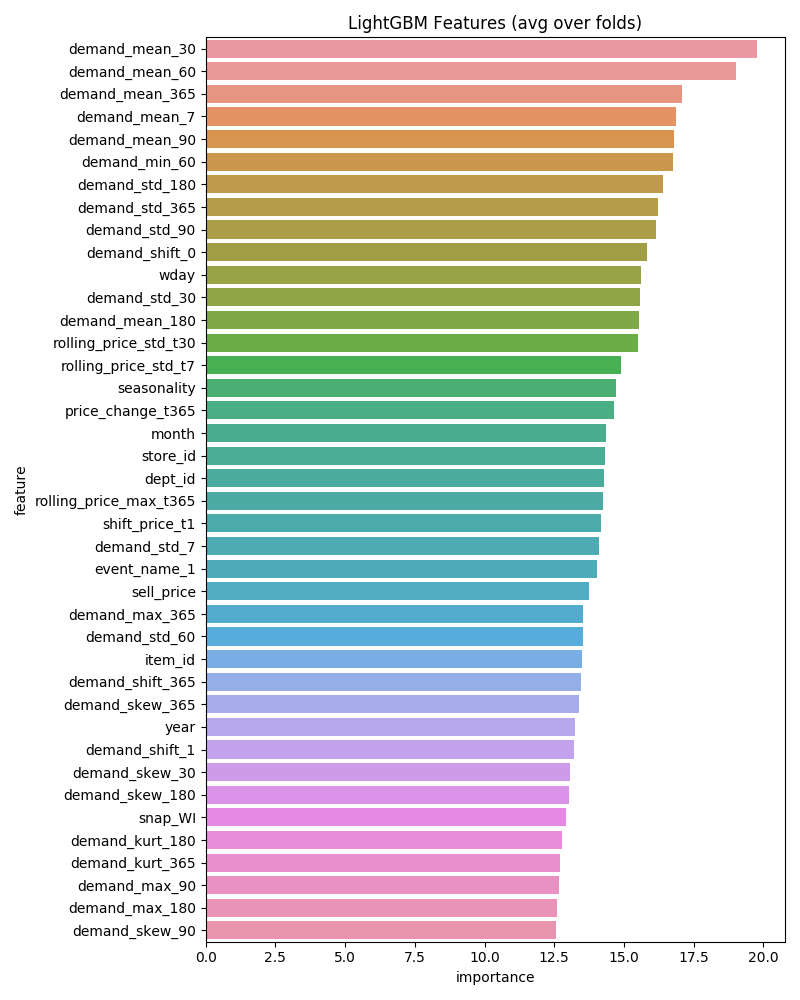
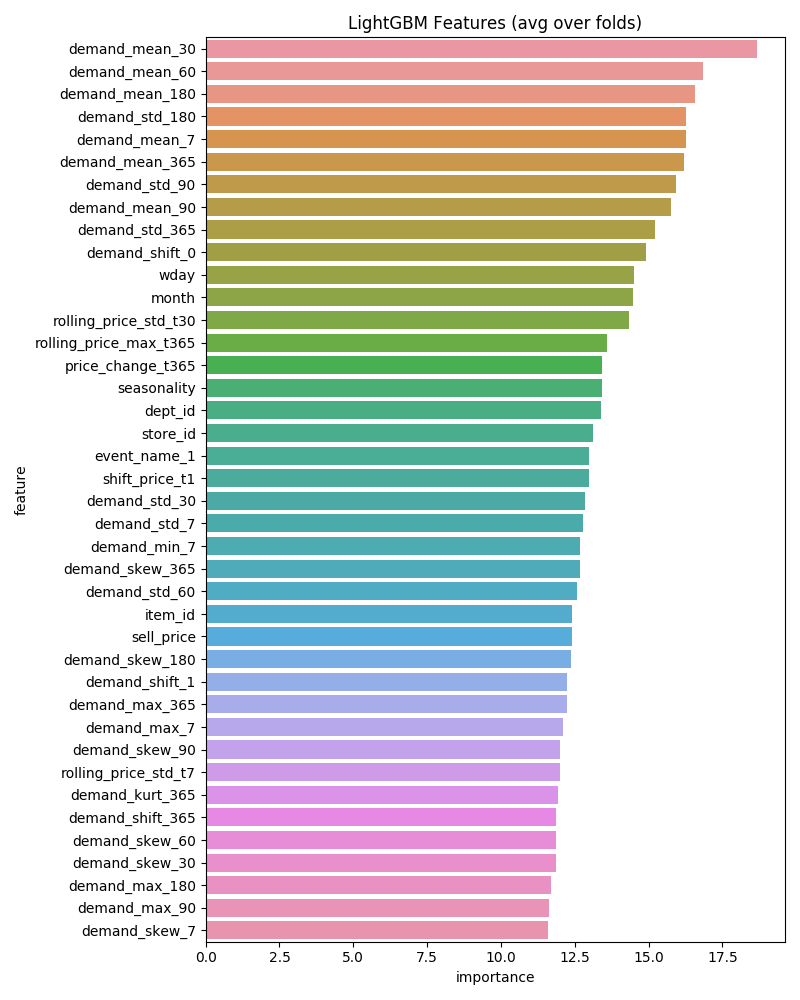
LB#12 holdout + cat cols

diff --git a/src/utils.py b/src/utils.py
@@ -11,10 +11,15 @@ from multiprocessing import Pool, cpu_count
 from sklearn.metrics import mean_squared_error
 from time import time, sleep
 from tqdm import tqdm
+from typing import Union
 
 NUM_FOLDS = 5
 
 FEATS_EXCLUDED = ['demand','index','id','d','date','is_test','wm_yr_wk','d_numeric']
+
+# ref:https://www.kaggle.com/kailex/m5-forecaster-0-57330/comments
+CAT_COLS = ['state_id','dept_id','cat_id','wday','day','week','month',
+            'quarter', 'year', 'is_weekend','snap_CA', 'snap_TX', 'snap_WI']
 
 COMPETITION_NAME = 'm5-forecasting-accuracy'
 
@@ -69,7 +74,7 @@ def line_notify(message):
 # API submission https://github.com/KazukiOnodera/Home-Credit-Default-Risk/blob/master/py/utils.py
 def submit(file_path, comment='from API'):
     os.system('kaggle competitions submit -c {} -f {} -m "{}"'.format(COMPETITION_NAME,file_path,comment))
-    sleep(60) # tekito~~~~
+    sleep(360) # tekito~~~~
     tmp = os.popen('kaggle competitions submissions -c {} -v | head -n 2'.format(COMPETITION_NAME)).read()
     col, values = tmp.strip().split('\n')
     message = 'SCORE!!!\n'
@@ -125,7 +130,7 @@ def to_json(data_dict, path):
 
 # ref: https://www.kaggle.com/harupy/m5-baseline
 class CustomTimeSeriesSplitter:
-    def __init__(self, n_splits=5, train_days=80, test_days=20, day_col="d"):
+    def __init__(self, n_splits=5, train_days=80, test_days=20, day_col='d'):
         self.n_splits = n_splits
         self.train_days = train_days
         self.test_days = test_days
@@ -171,3 +176,90 @@ class CustomTimeSeriesSplitter:
 
     def get_n_splits(self):
         return self.n_splits
+
+# function for evaluating WRMSSEE
+# ref: https://www.kaggle.com/c/m5-forecasting-accuracy/discussion/133834
+class WRMSSEEvaluator(object):
+
+    def __init__(self, train_df: pd.DataFrame, valid_df: pd.DataFrame, calendar: pd.DataFrame, prices: pd.DataFrame):
+        train_y = train_df.loc[:, train_df.columns.str.startswith('d_')]
+        train_target_columns = train_y.columns.tolist()
+        weight_columns = train_y.iloc[:, -28:].columns.tolist()
+
+        train_df['all_id'] = 0  # for lv1 aggregation
+
+        id_columns = train_df.loc[:, ~train_df.columns.str.startswith('d_')].columns.tolist()
+        valid_target_columns = valid_df.loc[:, valid_df.columns.str.startswith('d_')].columns.tolist()
+
+        if not all([c in valid_df.columns for c in id_columns]):
+            valid_df = pd.concat([train_df[id_columns], valid_df], axis=1, sort=False)
+
+        self.train_df = train_df
+        self.valid_df = valid_df
+        self.calendar = calendar
+        self.prices = prices
+
+        self.weight_columns = weight_columns
+        self.id_columns = id_columns
+        self.valid_target_columns = valid_target_columns
+
+        weight_df = self.get_weight_df()
+
+        self.group_ids = (
+            'all_id',
+            'state_id',
+            'store_id',
+            'cat_id',
+            'dept_id',
+            ['state_id', 'cat_id'],
+            ['state_id', 'dept_id'],
+            ['store_id', 'cat_id'],
+            ['store_id', 'dept_id'],
+            'item_id',
+            ['item_id', 'state_id'],
+            ['item_id', 'store_id']
+        )
+
+        for i, group_id in enumerate(tqdm(self.group_ids)):
+            setattr(self, f'lv{i + 1}_train_df', train_df.groupby(group_id)[train_target_columns].sum())
+            setattr(self, f'lv{i + 1}_valid_df', valid_df.groupby(group_id)[valid_target_columns].sum())
+
+            lv_weight = weight_df.groupby(group_id)[weight_columns].sum().sum(axis=1)
+            setattr(self, f'lv{i + 1}_weight', lv_weight / lv_weight.sum())
+
+    def get_weight_df(self) -> pd.DataFrame:
+        day_to_week = self.calendar.set_index('d')['wm_yr_wk'].to_dict()
+        weight_df = self.train_df[['item_id', 'store_id'] + self.weight_columns].set_index(['item_id', 'store_id'])
+        weight_df = weight_df.stack().reset_index().rename(columns={'level_2': 'd', 0: 'value'})
+        weight_df['wm_yr_wk'] = weight_df['d'].map(day_to_week)
+
+        weight_df = weight_df.merge(self.prices, how='left', on=['item_id', 'store_id', 'wm_yr_wk'])
+        weight_df['value'] = weight_df['value'] * weight_df['sell_price']
+        weight_df = weight_df.set_index(['item_id', 'store_id', 'd']).unstack(level=2)['value']
+        weight_df = weight_df.loc[zip(self.train_df.item_id, self.train_df.store_id), :].reset_index(drop=True)
+        weight_df = pd.concat([self.train_df[self.id_columns], weight_df], axis=1, sort=False)
+        return weight_df
+
+    def rmsse(self, valid_preds: pd.DataFrame, lv: int) -> pd.Series:
+        train_y = getattr(self, f'lv{lv}_train_df')
+        valid_y = getattr(self, f'lv{lv}_valid_df')
+        score = ((valid_y - valid_preds) ** 2).mean(axis=1)
+        scale = ((train_y.iloc[:, 1:].values - train_y.iloc[:, :-1].values) ** 2).mean(axis=1)
+        return (score / scale).map(np.sqrt)
+
+    def score(self, valid_preds: Union[pd.DataFrame, np.ndarray]) -> float:
+        assert self.valid_df[self.valid_target_columns].shape == valid_preds.shape
+
+        if isinstance(valid_preds, np.ndarray):
+            valid_preds = pd.DataFrame(valid_preds, columns=self.valid_target_columns)
+
+        valid_preds = pd.concat([self.valid_df[self.id_columns], valid_preds], axis=1, sort=False)
+
+        all_scores = []
+        for i, group_id in enumerate(self.group_ids):
+            lv_scores = self.rmsse(valid_preds.groupby(group_id)[self.valid_target_columns].sum(), i + 1)
+            weight = getattr(self, f'lv{i + 1}_weight')
+            lv_scores = pd.concat([weight, lv_scores], axis=1, sort=False).prod(axis=1)
+            all_scores.append(lv_scores.sum())
+
+        return np.mean(all_scores)

diff --git a/src/203_train_lgbm_all_data.py b/src/203_train_lgbm_all_data.py
@@ -58,22 +58,11 @@ def train_lightgbm(train_df,test_df,debug=False):
     feats = [f for f in train_df.columns if f not in FEATS_EXCLUDED]
     cat_cols = [c for c in CAT_COLS if c in feats]
 
-    # split train & valid
-    train_idx = train_df['date']<='2016-03-27'
-    valid_idx = train_df['date'] > '2016-03-27'
-
-    train_x, train_y = train_df[train_idx][feats], train_df[train_idx]['demand']
-    valid_x, valid_y = train_df[valid_idx][feats], train_df[valid_idx]['demand']
-
     # set data structure
-    lgb_train = lgb.Dataset(train_x,
-                            label=train_y,
-                            categorical_feature=cat_cols,
+    lgb_train = lgb.Dataset(train_df[feats],
+                            label=train_df['demand'],
+#                            categorical_feature=cat_cols,
                             free_raw_data=False)
-    lgb_test = lgb.Dataset(valid_x,
-                           label=valid_y,
-                           categorical_feature=cat_cols,
-                           free_raw_data=False)
 
     # params optimized by optuna
     params ={
@@ -101,18 +90,18 @@ def train_lightgbm(train_df,test_df,debug=False):
     reg = lgb.train(
                     params,
                     lgb_train,
-                    valid_sets=[lgb_train, lgb_test],
-                    valid_names=['train', 'test'],
-                    num_boost_round=10000,
-                    early_stopping_rounds=200,
+#                    valid_sets=[lgb_train, lgb_test],
+#                    valid_names=['train', 'test'],
+                    num_boost_round=1400,
+#                    early_stopping_rounds=200,
                     verbose_eval=100
                     )
 
     # save model
-    reg.save_model('../output/lgbm_holdout.txt')
+    reg.save_model('../output/lgbm_all_data.txt')
 
     # save predictions
-    oof_preds[valid_idx] = reg.predict(valid_x, num_iteration=reg.best_iteration)
+    oof_preds += reg.predict(train_df[feats], num_iteration=reg.best_iteration)
     sub_preds += reg.predict(test_df[feats], num_iteration=reg.best_iteration)
 
     # save feature importances
@@ -122,8 +111,8 @@ def train_lightgbm(train_df,test_df,debug=False):
     fold_importance_df["fold"] = 1
     feature_importance_df = pd.concat([feature_importance_df, fold_importance_df], axis=0)
 
-    print('Fold %2d RMSE : %.6f' % (1, rmse(valid_y, oof_preds[valid_idx])))
-    del reg, train_x, train_y, valid_x, valid_y
+#    print('Fold %2d RMSE : %.6f' % (1, rmse(valid_y, oof_preds[valid_idx])))
+    del reg
     gc.collect()
 
     # Full RMSE score and LINE Notify
@@ -165,7 +154,7 @@ def train_lightgbm(train_df,test_df,debug=False):
         preds.to_csv(submission_file_name, index=False)
 
         # submission by API
-        submit(submission_file_name, comment='model202 cv: %.6f' % full_rmse)
+        submit(submission_file_name, comment='model203 cv: %.6f' % full_rmse)
 
 def main(debug=False):
     with timer("Load Datasets"):

diff --git a/src/002_calendar.py b/src/002_calendar.py
@@ -33,6 +33,8 @@ def main(is_eval=False):
     # drop string columns
     df.drop('weekday',axis=1,inplace=True)
 
+    df['day'] = df['date'].dt.day
+
     # TODO: feature engineering
 
     # save pkl
